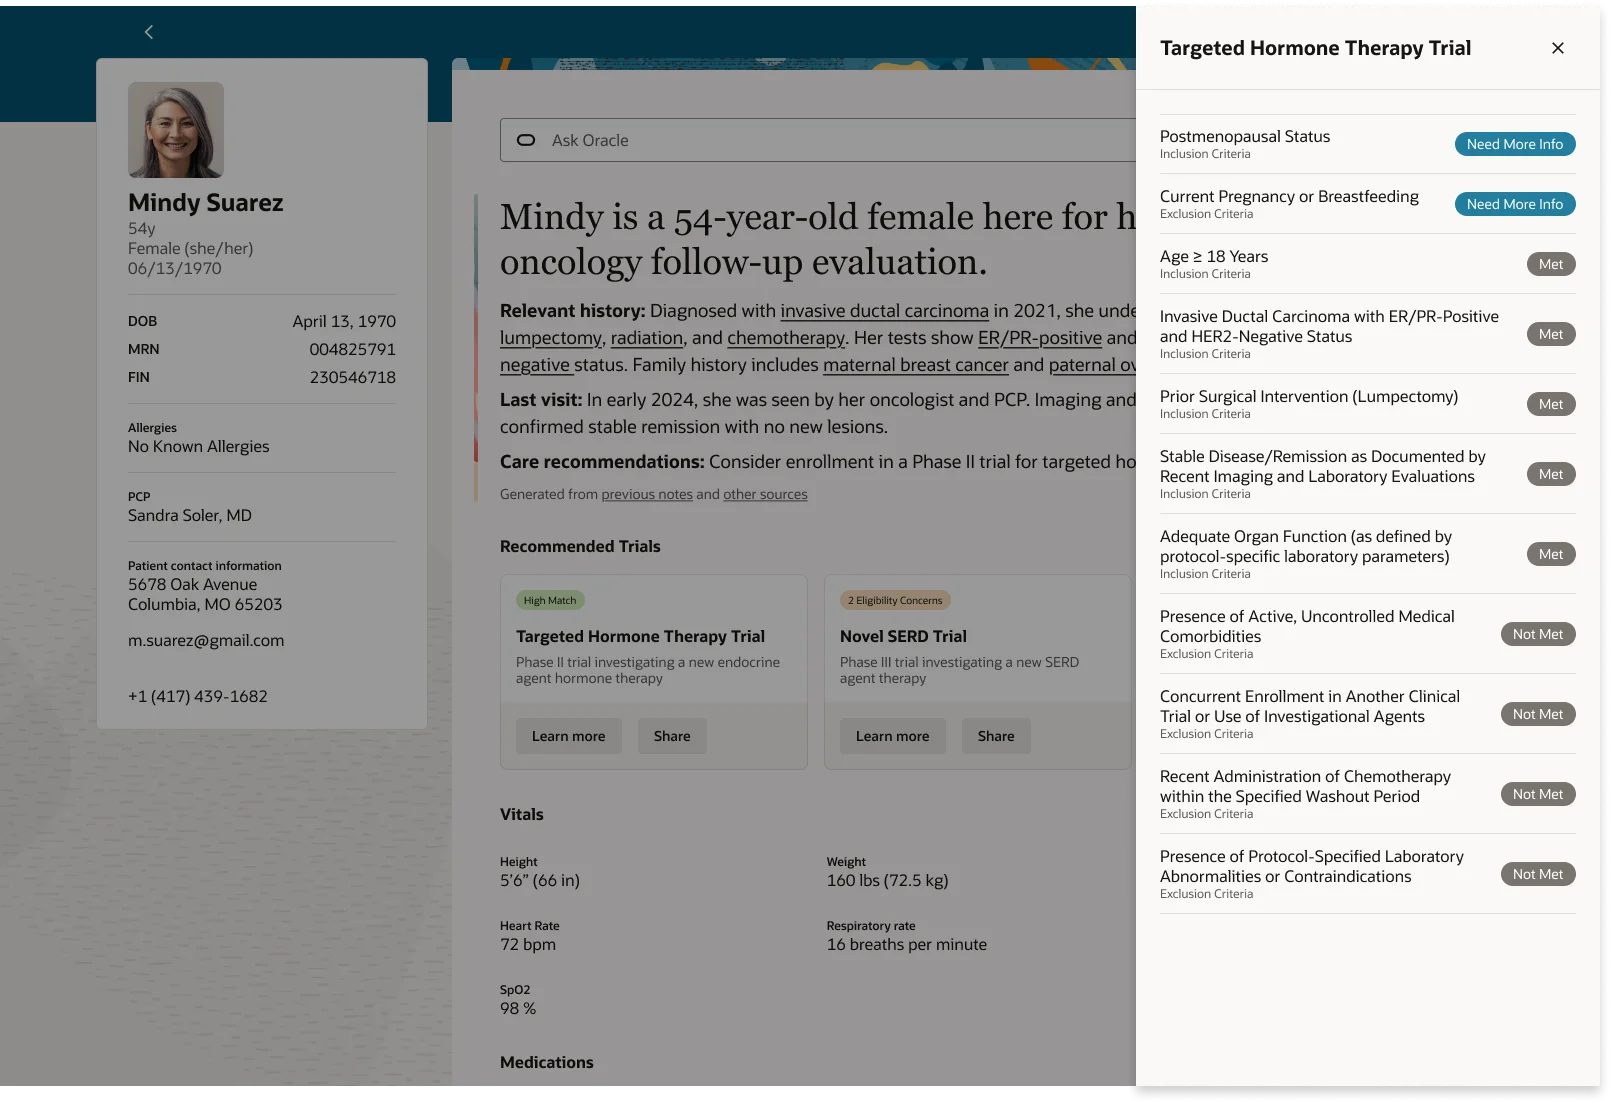
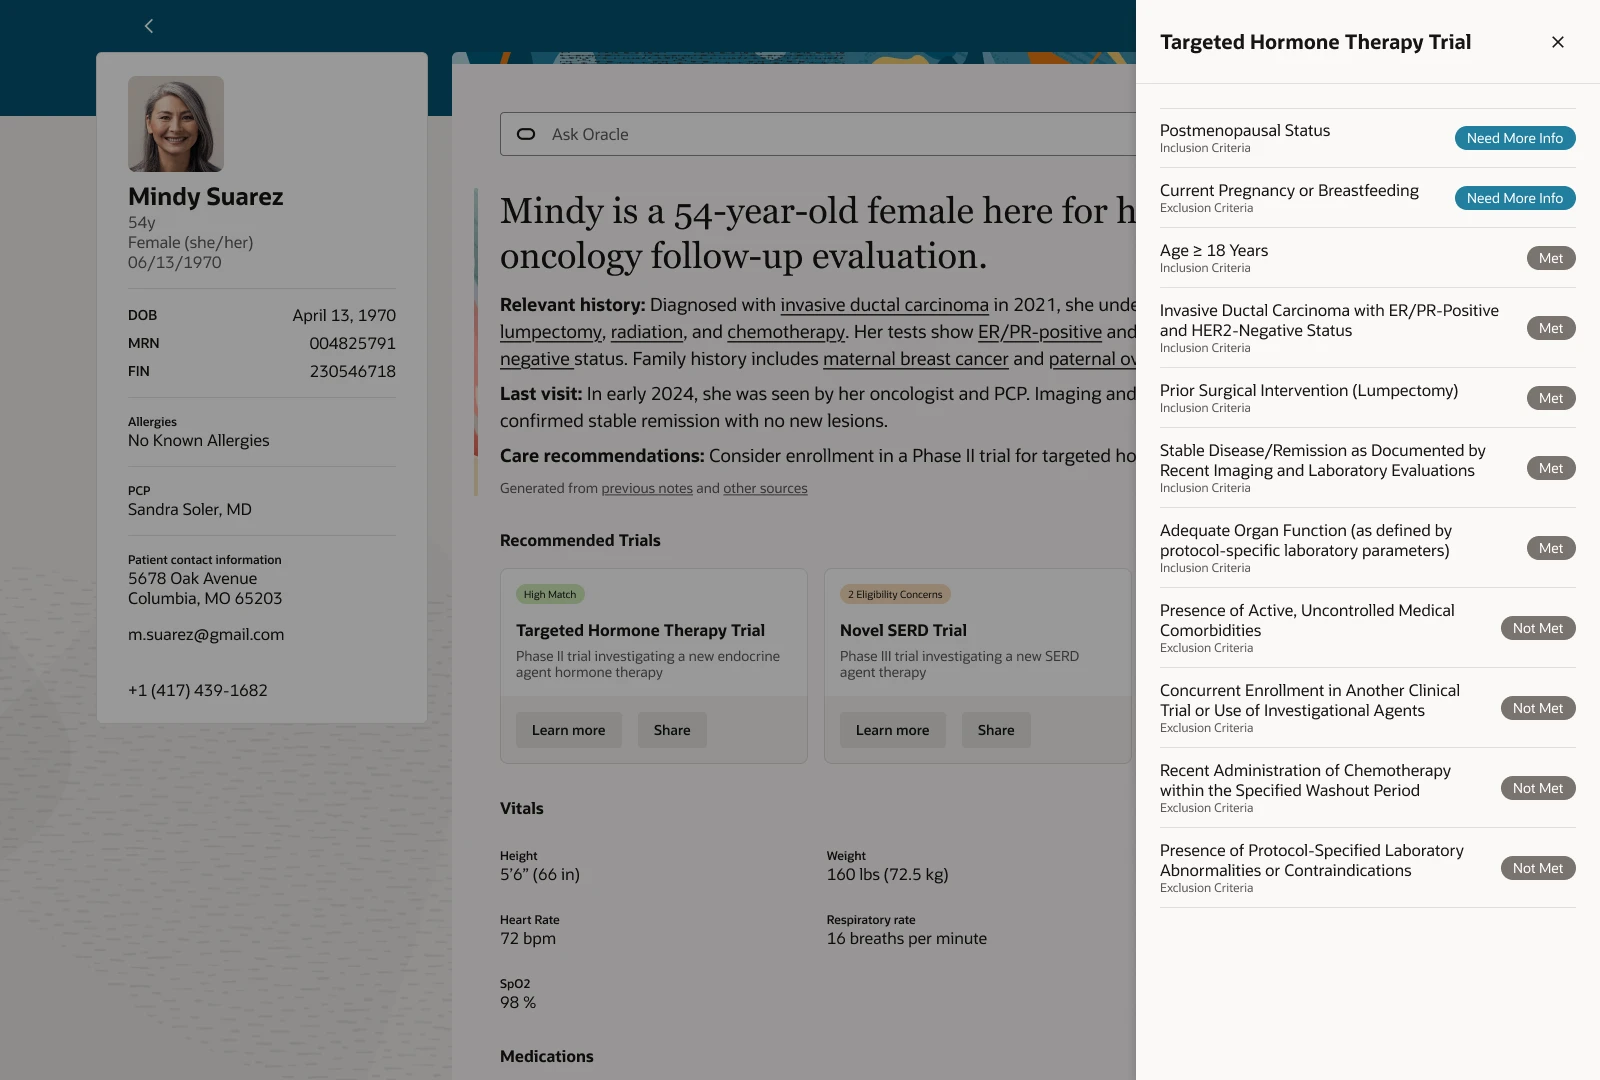
Replace eligibility image and simplify modal CSS

diff --git a/styles.css b/styles.css
@@ -1428,10 +1428,7 @@ body.custom-cursor-active label {
 /* ── Project modal ── */
 .project-modal {
   position: fixed;
-  top: 0;
-  left: 0;
-  width: 100vw;
-  height: 100vh;
+  inset: 0;
   z-index: 1500;
   background: var(--color-bg);
   color: var(--color-text);
